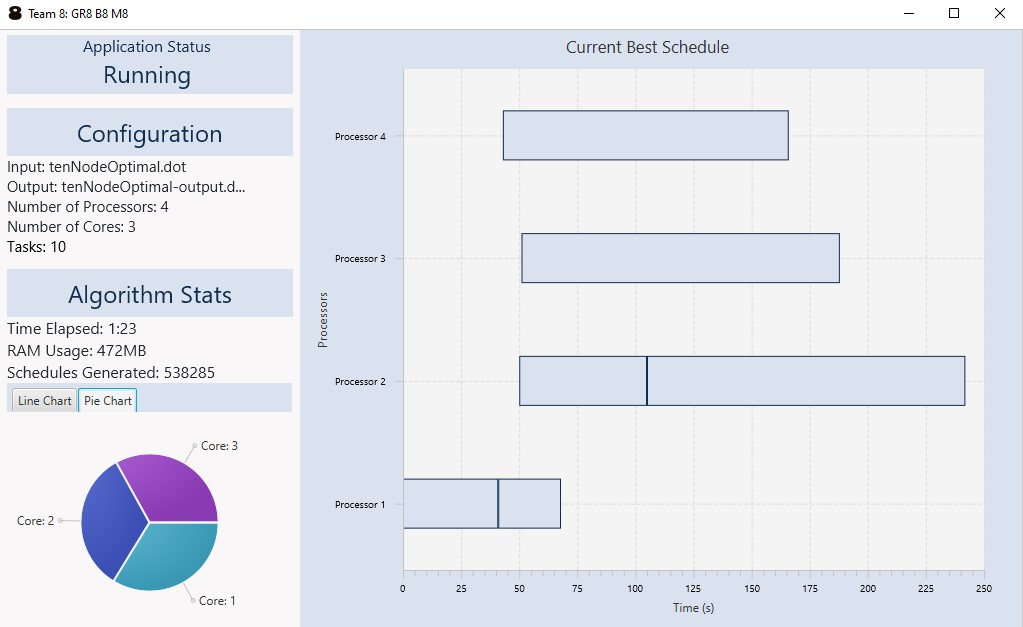
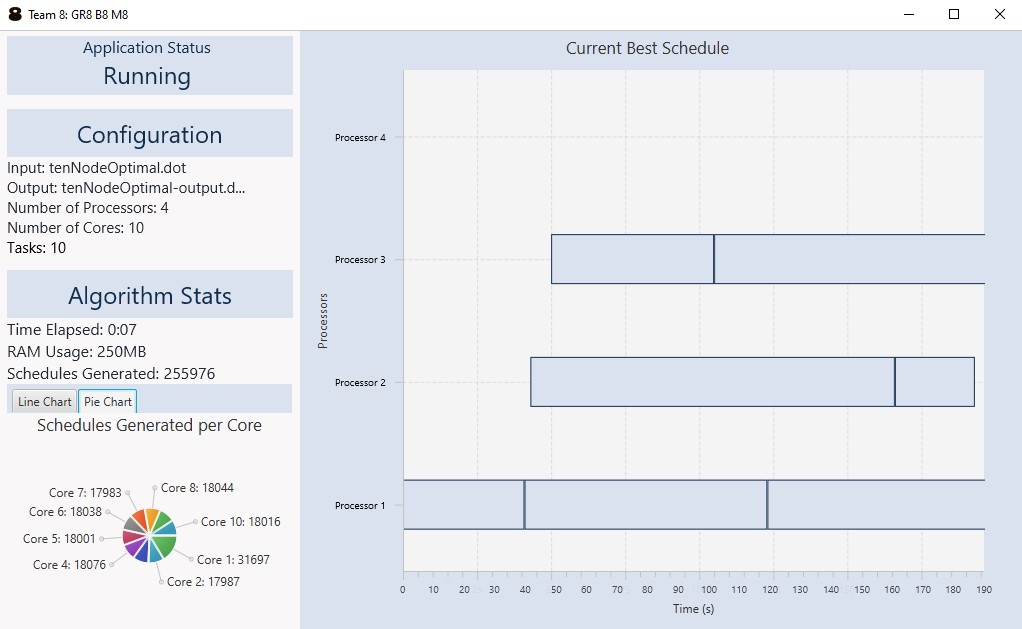
New visualisation image

diff --git a/wiki/visualisation/visualisation.md b/wiki/visualisation/visualisation.md
@@ -1,1 +1,26 @@
 # Visualisation
+What to display?
+##### User command line input
+* Input File Name
+* Output File Name
+* Number of Processors
+* Number of Cores
+
+##### Meaningful and Live components
+* Time elapsed
+* Schedules generated
+* Number of schedules generated over time - Line Graph
+* Current best schedule generated - Gantt Graph
+
+##### Parallelisation
+* Schedules generated by each thread/core - Pie Chart
+
+
+## Lo-Fi Wireframes
+#### Option 1: 
+#####2 Row layout.
+![Option2](Low-Fi2.png)
+#### Option 2:
+##### 2 Column layout
+![Option1](Low-Fi1.png)
+
